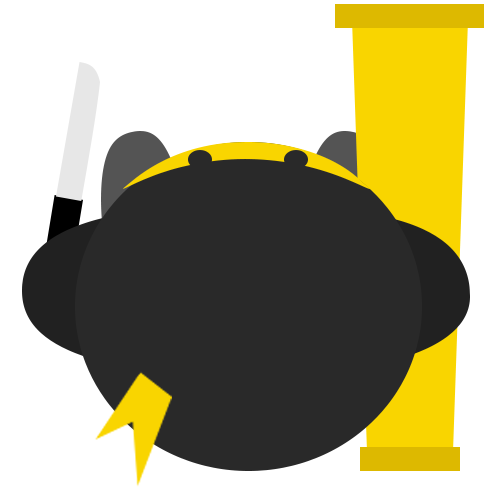
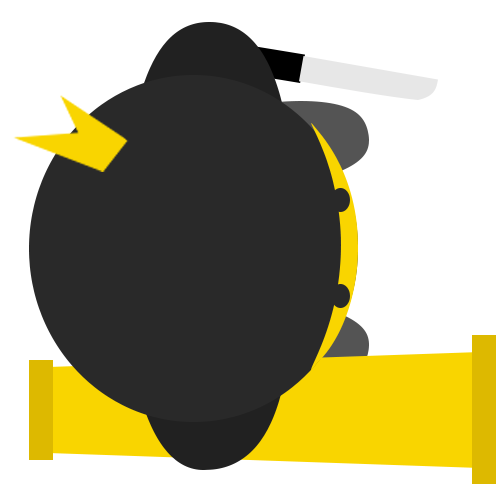
Skin ninja

diff --git a/src/public/js/models/shuriken_gun.js b/src/public/js/models/shuriken_gun.js
@@ -31,6 +31,11 @@ ShurikenGun.prototype.makeShuriken = function(angle) {
 	sView.x = s.ninja.view.x + Math.cos(angle) * (s.ninja.size + 30);
 	sView.y = s.ninja.view.y + Math.sin(angle) * (s.ninja.size + 30);
 	sView.graphics.beginFill(s.color).drawCircle(0,0, s.size)
+  
+  // var sView = new createjs.Bitmap("/images/shuriken-4-point-star.png");
+  // sView.x = s.ninja.view.x + Math.cos(angle) * (s.ninja.size + 30);
+  // sView.y = s.ninja.view.y + Math.sin(angle) * (s.ninja.size + 30);
+  // sView.graphics.beginFill(s.color).drawCircle(0,0, s.size)
 
 	// Make the Box2D body
 	var fixture = new b2FixtureDef;

diff --git a/src/public/js/models/game.js b/src/public/js/models/game.js
@@ -54,10 +54,10 @@ Game.prototype.addNinja = function(identifer) {
   shape_body.name = "body";
   shape_body.scaleX = NINJA_RADIUS  / (500 / 2.0);
   shape_body.scaleY = NINJA_RADIUS  / (500 / 2.0);
-  shape_body.x = position.x - NINJA_RADIUS;
-  shape_body.y = position.y - NINJA_RADIUS;
-  shape_body.regX = NINJA_RADIUS;
-  shape_body.regY = NINJA_RADIUS; 
+  shape_body.x = 0;
+  shape_body.y = 0;
+  shape_body.regX = 500 / 2;
+  shape_body.regY = 500 / 2;
 
   var view = new createjs.Container();
   view.x = position.x;

diff --git a/src/public/js/models/ninja.js b/src/public/js/models/ninja.js
@@ -79,6 +79,7 @@ Ninja.prototype.changeLinearVelocity = function(v) {
 Ninja.prototype.tick = function() {
   this.view.x = this.body.GetPosition().get_x() * SCALE;
   this.view.y = this.body.GetPosition().get_y() * SCALE;
+  this.view.getChildByName("body").rotation = toDegree(this.angle);
 
   if (this.hitPoint <= 0 || this.dead) {
     this.destroy();
